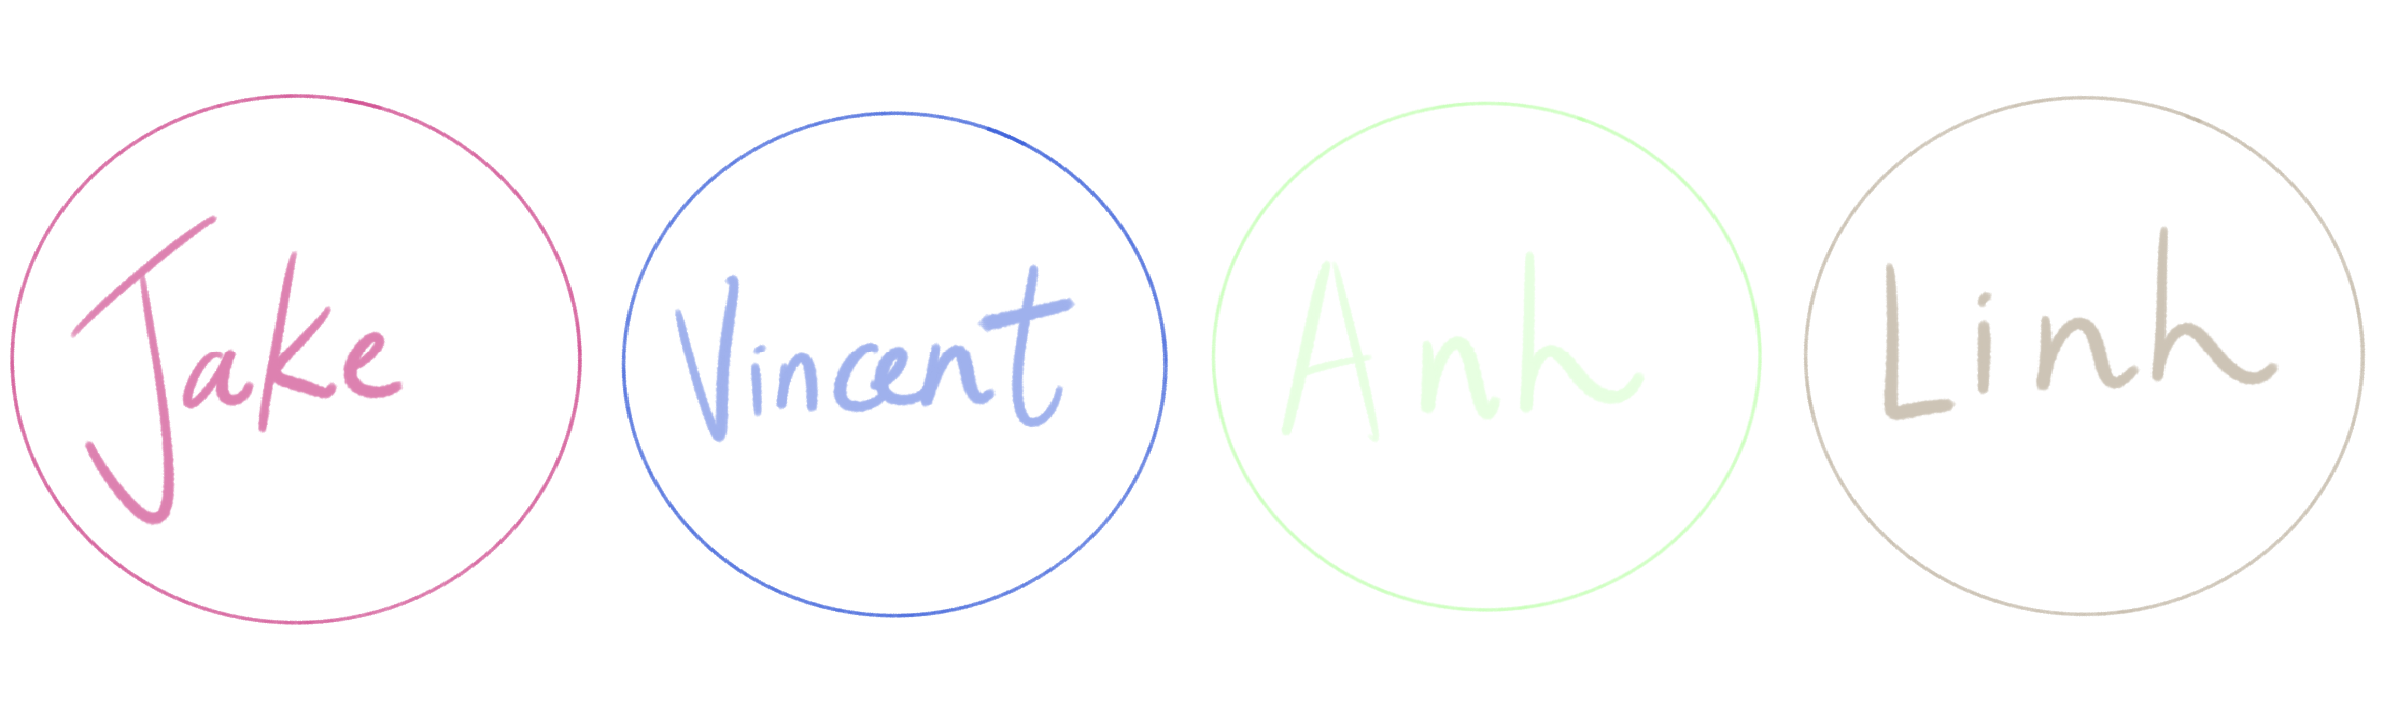
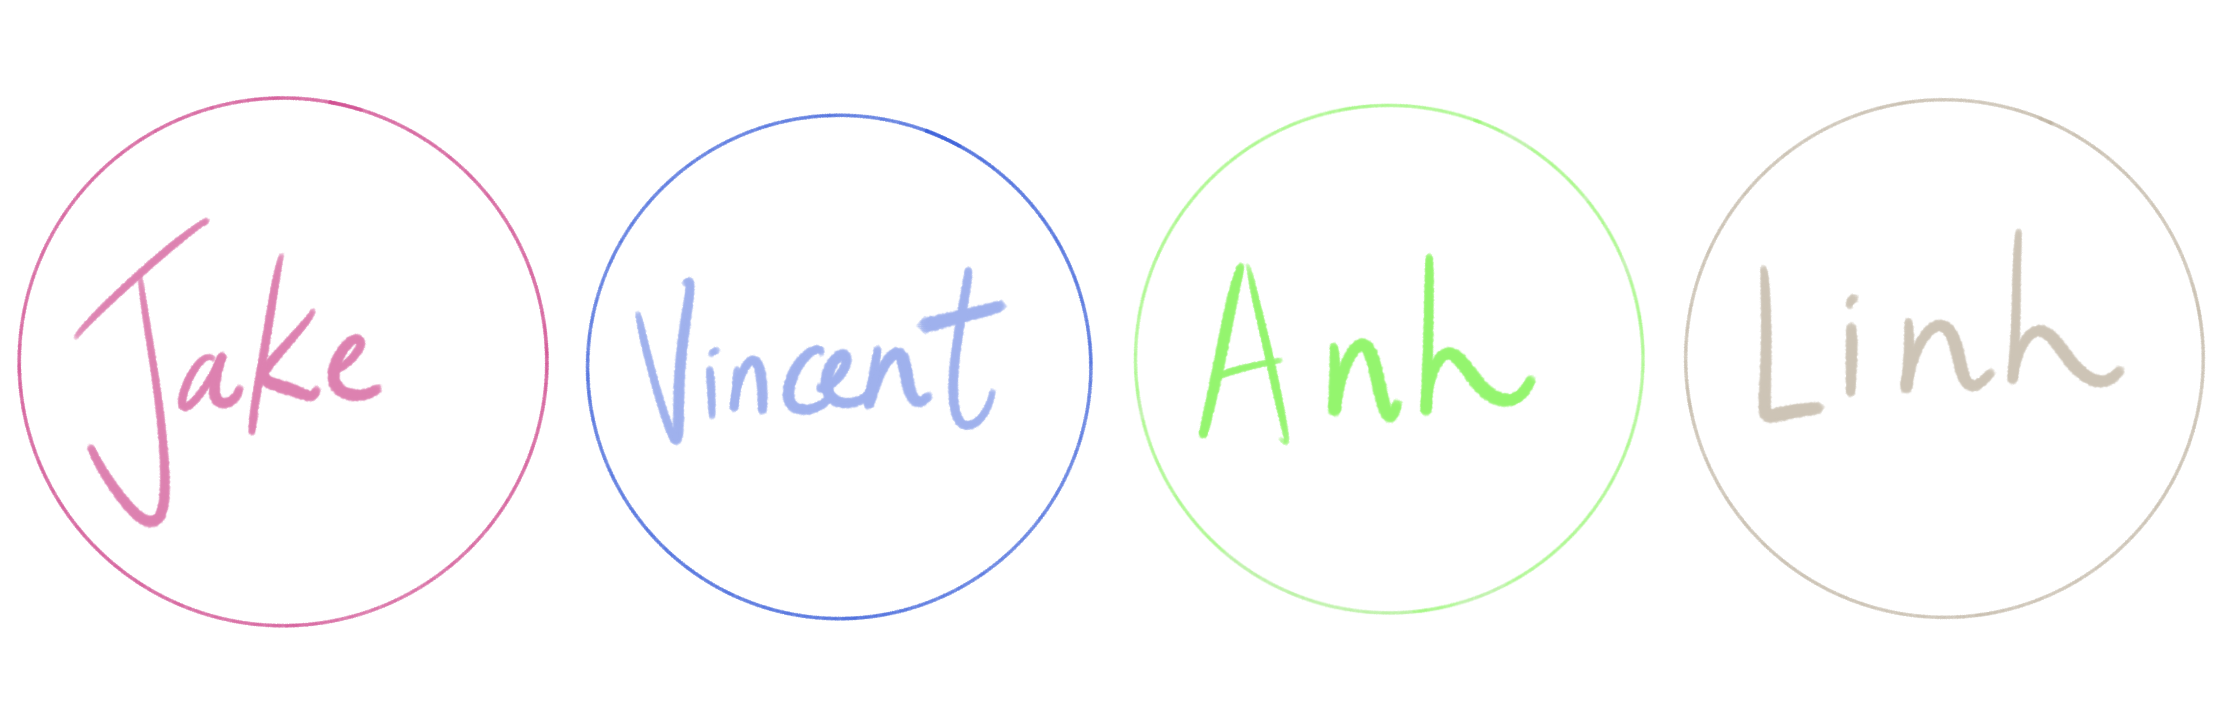
Fixed some css bugs for mobile responses and added the hamburger menu js to about-us.html and changed the image colour for clearer view.

diff --git a/public/css/main.css b/public/css/main.css
@@ -36,6 +36,28 @@ body {
     cursor: pointer;
 }
 
+#content {
+    grid-column: 2;
+    grid-row: 3;
+    padding: 3%;
+    display: flex;
+    justify-content: center;
+}
+
+.button {
+    display: inline-block;
+    width: 200px;
+    height: 50px;
+    margin: 16px;
+    padding: 8px 16px;
+    font-size: 16px;
+    border-radius: 15px;
+    color: rgba(52, 119, 249, 0.9);
+    background-color: #fff;
+    text-align: center;
+    text-decoration: none;
+}
+
 .navbar-links {
     height: 100%;
     margin-right: 15px;
@@ -63,7 +85,7 @@ body {
 }
 
 .navbar-links li a:hover {
-    color: rgba(52, 119, 249, 1.5);
+    color: white;
 }
 
 
@@ -108,7 +130,6 @@ button:hover {
 
 .um-subtitle {
     font-weight: 500;
-    letter-spacing: 0.5rem;
     font-size: 15px;
 }
 
@@ -123,42 +144,27 @@ button:hover {
     text-align: center;
 }
 
+.button:hover {
+    box-shadow: 0 12px 16px 0 rgba(0,0,0,0.24), 0 17px 50px 0 rgba(0,0,0,0.19);
+}
+
 .timeline {
-    display: inline-block;
-    padding: 15px 15px;
-    font-size: 24px;
+    font-size: 16px;
     cursor: pointer;
     text-align: center;
     text-decoration: none;
     outline: none;
     color: rgba(52, 119, 249, 0.9);
     background-color: #fff;
-    border: none;
-    border-radius: 15px;
-    width:17%;
-}
-
-.timeline:hover {
-    background-color: rgba(52, 119, 249, 0.7);
 }
 
 .forecastButton {
-    display: inline-block;
-    padding: 15px 15px;
-    font-size: 24px;
+    font-size: 16px;
     cursor: pointer;
     text-align: center;
     text-decoration: none;
     outline: none;
     color: rgba(52, 119, 249, 0.9);
-    background-color: #fff;
-    border: none;
-    border-radius: 15px;
-    width:17%;
-}
-
-.forecastButton:hover {
-    background-color: rgba(52, 119, 249, 0.7);
 }
 
 .howitwork {
@@ -234,6 +240,7 @@ footer {
 
     .navbar-links.active {
         display: flex;
+        background:white;
     }
 
     .singin {
@@ -258,7 +265,6 @@ footer {
 
     .um-subtitle {
         font-weight: 500;
-        letter-spacing: 0.5rem;
         font-size: 12px;
     }
 
@@ -272,42 +278,12 @@ footer {
         text-align: center;
         align-items: center;
     }
-
-    .createPost {
-        display: inline-block;
-        padding: 15px 15px;
-        font-size: 18px;
-        cursor: pointer;
-        text-align: center;
-        text-decoration: none;
-        outline: none;
-        border: none;
-        border-radius: 12px;
-        margin-bottom: 10px;
-        text-align: center;
-        margin-right: 20px;
-    }
-
-    .createPost:hover {
-        background-color: rgba(52, 119, 249, 0.7);
+    
+    .timeline {
+        font-size:14px;
     }
 
     .forecastButton {
-        display: inline-block;
-        padding: 15px 15px;
-        font-size: 18px;
-        cursor: pointer;
-        text-align: center;
-        text-decoration: none;
-        outline: none;
-        border: none;
-        border-radius: 12px;
-        margin-bottom: 10px;
-        text-align: center;
-        margin-left: 20px;
-    }
-
-    .forecastButton:hover {
-        background-color: rgba(52, 119, 249, 0.7);
+        font-size:14px;
     }
 }

diff --git a/public/css/about-us.css b/public/css/about-us.css
@@ -171,8 +171,11 @@ footer {
 }
 
 #myImg {
-    max-width: 100%;
+    width: 50%;
     height: auto;
+    display:block;
+    margin-left:auto;
+    margin-right:auto;
 }
 
 #small-totoro {
@@ -207,11 +210,18 @@ footer {
         flex-direction: column;
         align-items: flex-start;
         color: #000;
-        background-color: lightblue;
+        background-color: #5ca1dc;
     }
 
     .toggle-button {
         display: flex;
+    }
+
+    .brand-title {
+        font-size: 1.5rem;
+        margin: .5rem;
+        color: white;
+        cursor: pointer;
     }
 
     .navbar-links {
@@ -274,31 +284,38 @@ footer {
 
     .html-container {
         display:grid;
-    grid-template-columns: 100%;
     grid-template-rows: 25% 25% 25% 25%;
     }
 
     .who-we-are {
         grid-column: 1 / span 1;
         grid-row: 1 / span 1;
-        width : 100%;
+        width:175%;
     }
 
     .how-it-works {
         grid-column: 1 / span 1;
         grid-row: 2 / span 1;
-        width : 100%;
+        width : 175%;
     }
 
     .commitment {
         grid-column : 1 / span 1;
         grid-row:3 / span 1;
-        width:100%;
+        width:175%;
     }
 
     .contact-us {
         grid-column : 1 / span 1;
         grid-row : 4 / span 1;
-        width:100%;
+        width:175%;
+    }
+
+    #myImg {
+        width: 80%;
+        height: auto;
+        display:block;
+        margin-left:auto;
+        margin-right:auto;
     }
 }

diff --git a/app/html/main.html b/app/html/main.html
@@ -24,7 +24,7 @@
         </a>
         <div class="navbar-links">
             <ul>
-                <li><a href="#">Home</a></li>
+                <li><a href="/main">Home</a></li>
                 <li><a href="/profile">Profile</a></li>
                 <li><a href="/about-us">About Us</a></li>
                 <li>
@@ -42,11 +42,14 @@
                 <div id="header-name"></div>
                 <h1 class="branch">Extremis</h1>
             </header>
-
-            <p class="main-button">
-                <a class="timeline" href="/timeline/" role="button">Timeline</a>
-                <a class="forecastButton" href="/weather-forecast/" role="button">Weather Forecast</a>
-            </p>
+            <div id="content">
+            <div class="button" id="timeline-button">
+                <p> <a class="timeline" href="/timeline/" role="button">Timeline</a></p>
+            </div>
+            <div class="button" id="forecast-button">
+                <p>  <a class="forecastButton" href="/weather-forecast/" role="button">Weather Forecast</a></p>
+            </div>
+            </div>
         </div>
 
     </div>

diff --git a/public/css/dashboard.css b/public/css/dashboard.css
@@ -76,7 +76,7 @@ a {
 }
 
 .button:hover {
-    background-color: #3477f9;
+    box-shadow: 0 12px 16px 0 rgba(0,0,0,0.24), 0 17px 50px 0 rgba(0,0,0,0.19);
 }
 
 .navbar {
@@ -147,12 +147,12 @@ a {
 .singin {
     margin-top: 8px;
     padding: 9px 25px;
-    background-color: #fff;
+    background-color:#3477f9 ;
     border: none;
     border-radius: 50px;
     font-size: 16px;
     cursor: pointer;
-    color: rgba(52, 119, 249, 0.7);
+    color: white;
     transition: all 0.3s ease 0s;
     letter-spacing: 1.5px;
 }
@@ -247,6 +247,7 @@ footer {
 
     .navbar-links.active {
         display: flex;
+        background:white;
     }
 
     .singin {

diff --git a/public/js/about-us.js b/public/js/about-us.js
@@ -1,3 +1,15 @@
+/**
+ * I found how to do the toggleButton on 1537 course and 1800 course. 
+ * I found some syntax and codes on this website that I can use to create a hambuger menu.
+ * https://www.educba.com/hamburger-menu-javascript/
+ */
+ const toggleButton = document.getElementsByClassName('toggle-button')[0]
+ const navbarLinks = document.getElementsByClassName('navbar-links')[0]
+ 
+ toggleButton.addEventListener('click', () => {
+     navbarLinks.classList.toggle('active')
+ })
+
 function changeImg() {
     document.getElementById("ghibli-event").addEventListener("click", function(e) {
         var image = document.getElementById('myImg');

diff --git a/app/html/profile.html b/app/html/profile.html
@@ -23,7 +23,7 @@
             <ul>
                 <li><a href="/main">Home</a></li>
                 <li><a href="/profile">Profile</a></li>
-                <li><a href="/about">About Us</a></li>
+                <li><a href="/about-us">About Us</a></li>
                 <li>
                     <form action="/logout" method="get">
                         <input type="submit" class="singin" value="Sign out" />

diff --git a/app/html/about-us.html b/app/html/about-us.html
@@ -26,7 +26,7 @@
             <ul>
                 <li><a href="/main">Home</a></li>
                 <li><a href="/profile">Profile</a></li>
-                <li><a href="#">About Us</a></li>
+                <li><a href="/about-us">About Us</a></li>
                 <li>
                     <form action="/logout" method="get">
                         <input type="submit" class="singin" value="Sign out" />
